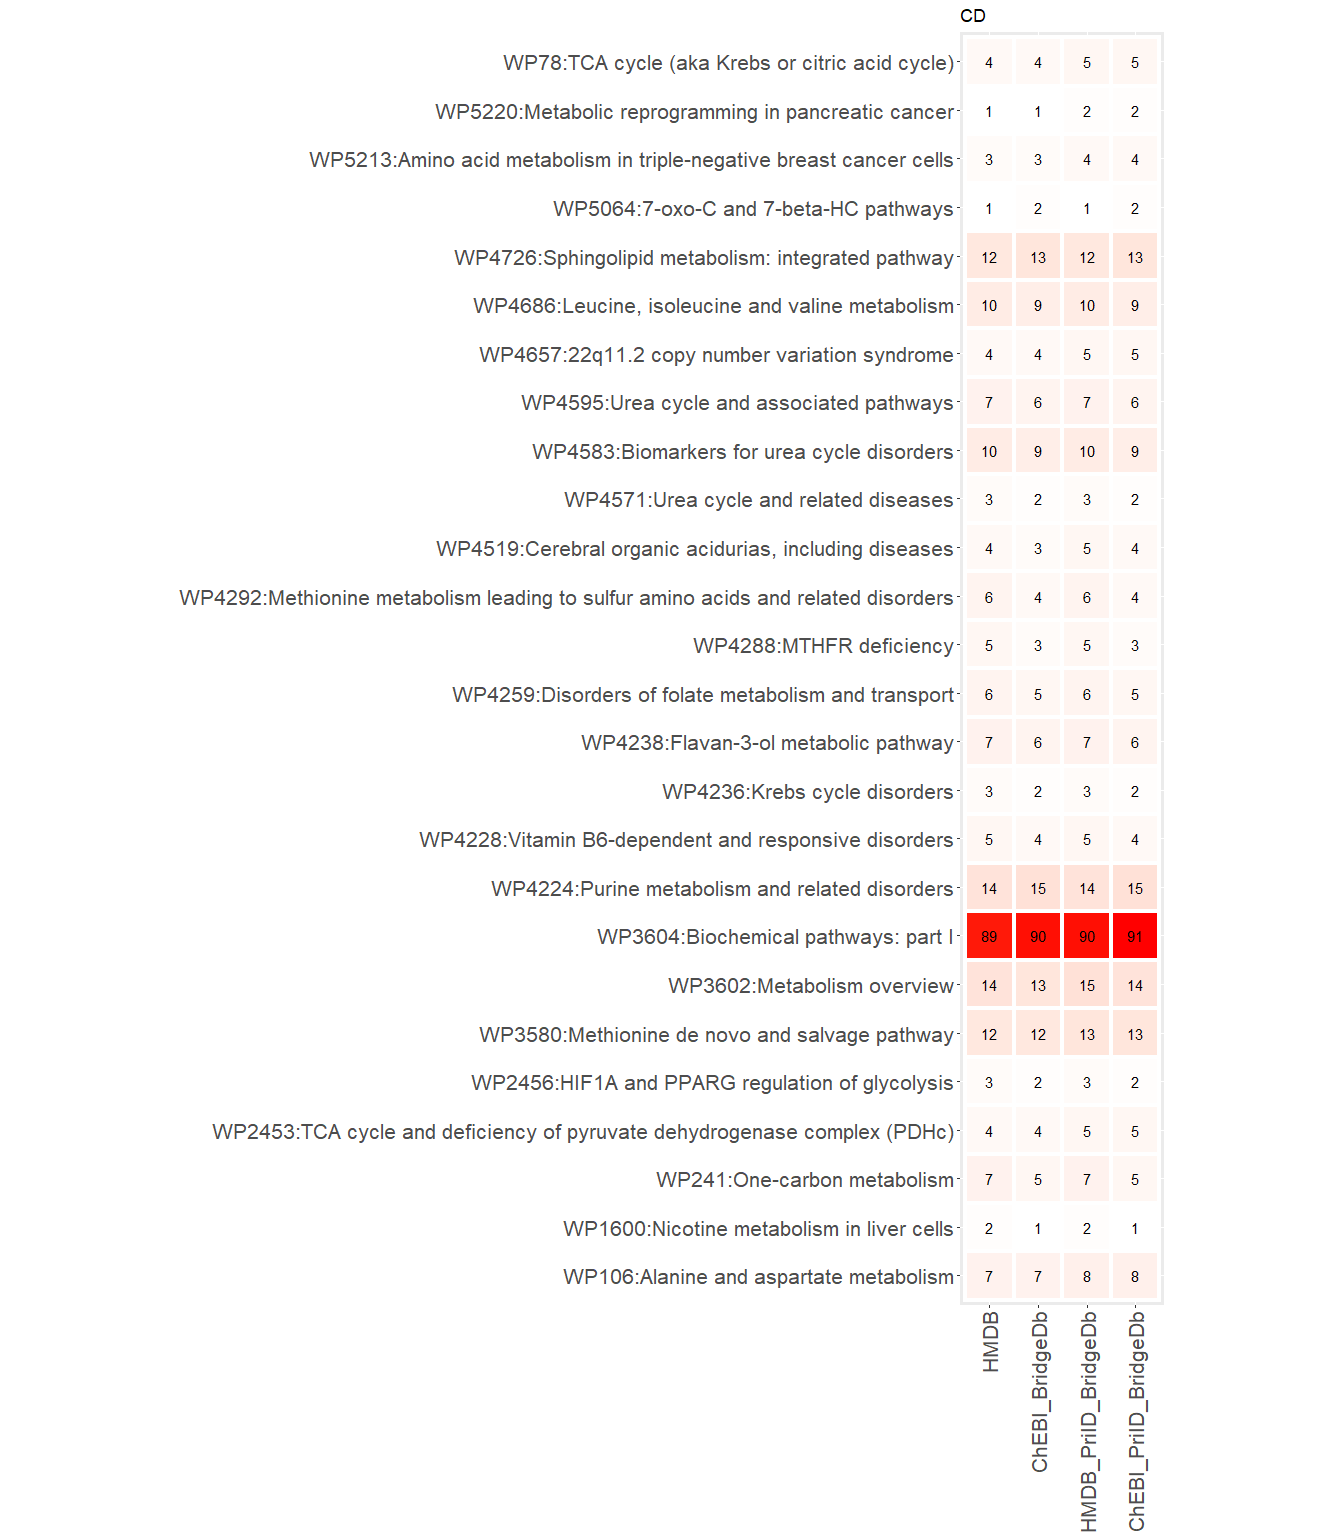
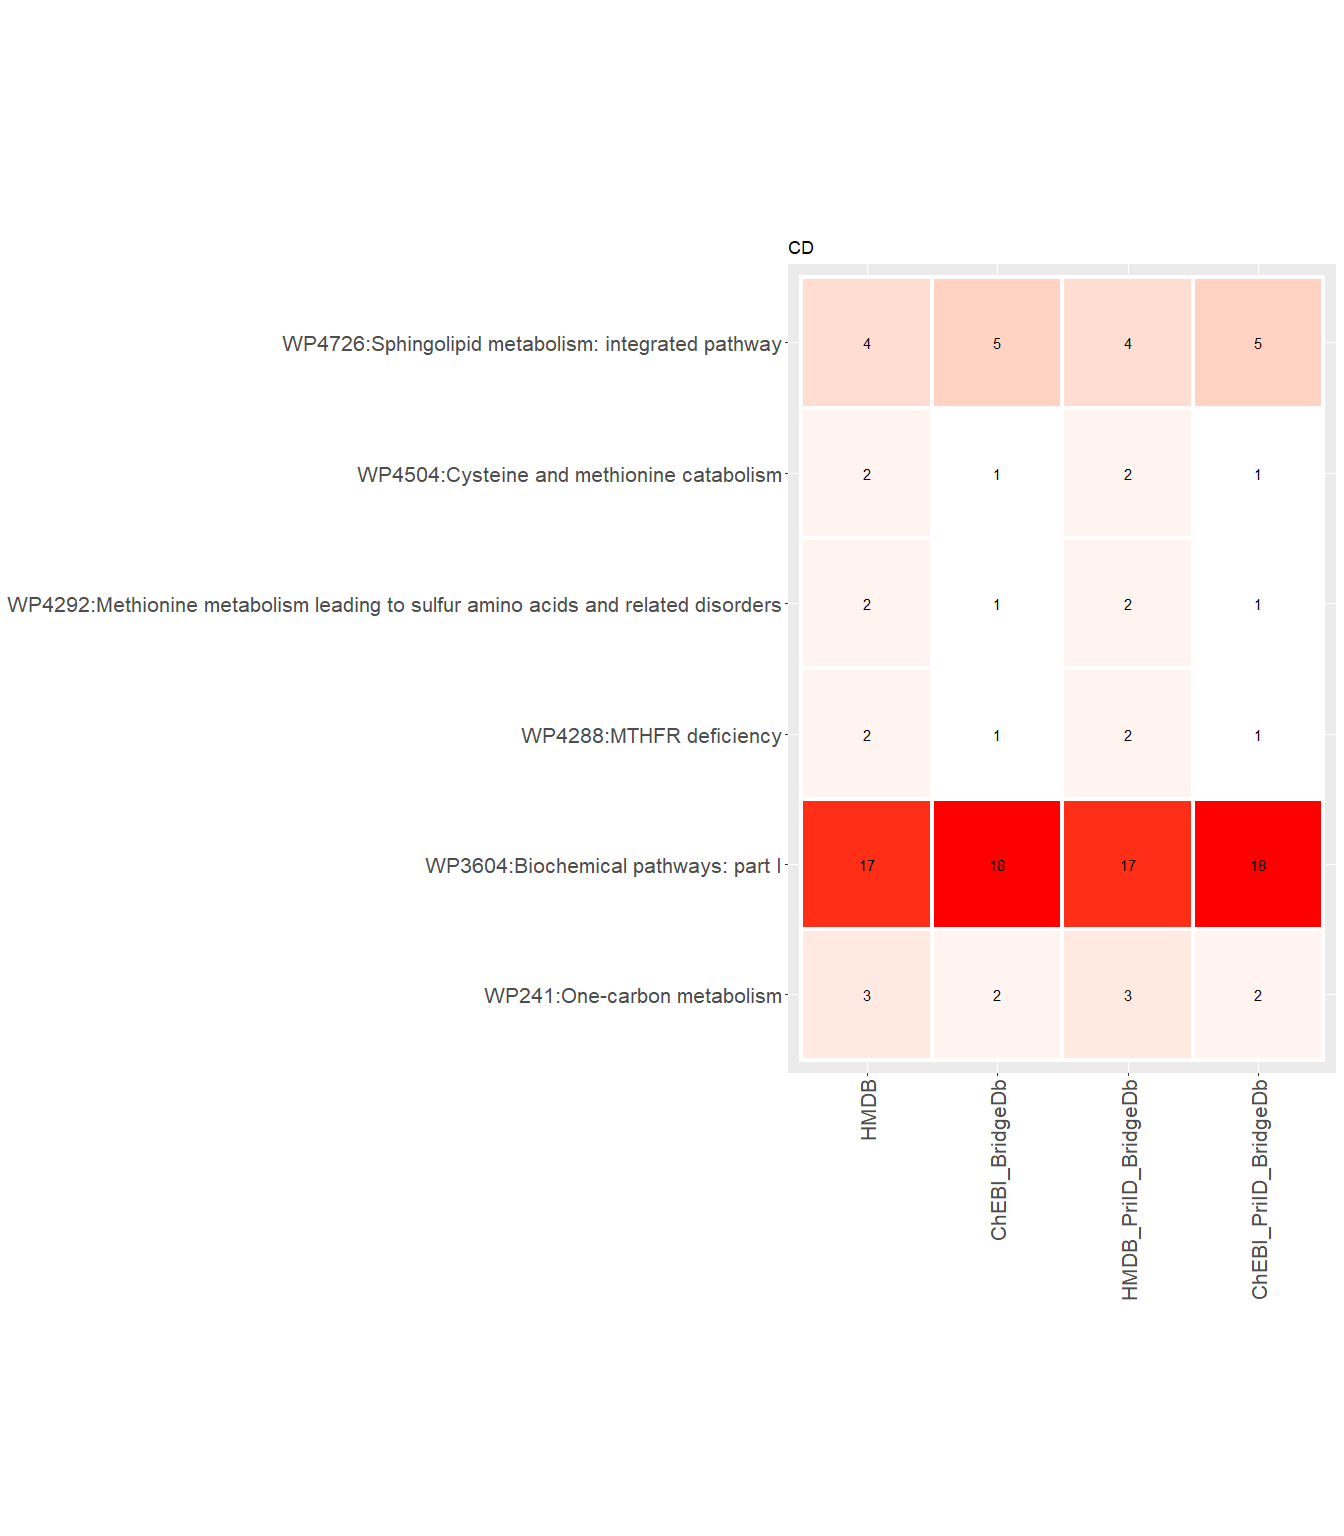
combined pathways step 5

Changed region(s): [[0.0, 0.0312, 1.0, 1.0], [0.9375, 0.7188, 0.9688, 0.7812], [0.9062, 0.8125, 0.9688, 0.8438]]

diff --git a/scripts/4-pathway_analysis_metabolomics/pathway_analysis_metabolomics.md b/scripts/4-pathway_analysis_metabolomics/pathway_analysis_metabolomics.md
@@ -42,20 +42,23 @@ mbx_dataset_CD <- read.delim("../3-identifier_mapping_metabolomics/results/mbx_I
 mbx_dataset_UC <- read.delim("../3-identifier_mapping_metabolomics/results/mbx_IDMapping_UC")
 
 #make list of metabolites for the pathway analysis
+## Significant rows
+sig.rows_CD <- which((mbx_dataset_CD$log2FC >= 1 | mbx_dataset_CD$log2FC <= -1) & mbx_dataset_CD$pvalue < 0.05)
+sig.rows_UC <- which((mbx_dataset_UC$log2FC >= 1 | mbx_dataset_UC$log2FC <= -1) & mbx_dataset_UC$pvalue < 0.05)
 ### HMDB IDs:
-sig.metabolites.HMDB_CD <- na.omit(unique(mbx_dataset_CD$HMDBID)) #CD
-sig.metabolites.HMDB_UC <- na.omit(unique(mbx_dataset_UC$HMDBID)) #UC
+sig.metabolites.HMDB_CD <- na.omit(unique(mbx_dataset_CD$HMDBID[sig.rows_CD])) #CD
+sig.metabolites.HMDB_UC <- na.omit(unique(mbx_dataset_UC$HMDBID[sig.rows_UC])) #UC
 ## BridgeDb
 ### ChEBI IDs:
-sig.metabolites.ChEBI_BridgeDb_CD <- na.omit(unique(mbx_dataset_CD$ChEBI_BridgeDb)) #CD
-sig.metabolites.ChEBI_BridgeDb_UC <- na.omit(unique(mbx_dataset_UC$ChEBI_BridgeDb)) #UC
+sig.metabolites.ChEBI_BridgeDb_CD <- na.omit(unique(mbx_dataset_CD$ChEBI_BridgeDb[sig.rows_CD])) #CD
+sig.metabolites.ChEBI_BridgeDb_UC <- na.omit(unique(mbx_dataset_UC$ChEBI_BridgeDb[sig.rows_UC])) #UC
 ## Primary id mapping, BridgeDb,
 ### primary HMDB IDs:
-sig.metabolites.HMDB_PriID_BridgeDb_CD <- na.omit(unique(mbx_dataset_CD$Current_HMDBID)) #CD
-sig.metabolites.HMDB_PriID_BridgeDb_UC <- na.omit(unique(mbx_dataset_UC$Current_HMDBID)) #UC
+sig.metabolites.HMDB_PriID_BridgeDb_CD <- na.omit(unique(mbx_dataset_CD$Current_HMDBID[sig.rows_CD])) #CD
+sig.metabolites.HMDB_PriID_BridgeDb_UC <- na.omit(unique(mbx_dataset_UC$Current_HMDBID[sig.rows_UC])) #UC
 ### ChEBI IDs:
-sig.metabolites.ChEBI_PriID_BridgeDb_CD <- na.omit(unique(mbx_dataset_CD$ChEBI_PriID_BridgeDb)) #CD
-sig.metabolites.ChEBI_PriID_BridgeDb_UC <- na.omit(unique(mbx_dataset_UC$ChEBI_PriID_BridgeDb)) #UC
+sig.metabolites.ChEBI_PriID_BridgeDb_CD <- na.omit(unique(mbx_dataset_CD$ChEBI_PriID_BridgeDb[sig.rows_CD])) #CD
+sig.metabolites.ChEBI_PriID_BridgeDb_UC <- na.omit(unique(mbx_dataset_UC$ChEBI_PriID_BridgeDb[sig.rows_UC])) #UC
 ```
 
 ## Find pathways for each dataset, based on different IDs.
@@ -180,20 +183,22 @@ kable(MappingStats)
 
 |                                                                               | BridgeDb | PrimaryID_BridgeDb |
 |:---------------------------------------------------|------:|-------------:|
-| #significant metabolites with HMDB IDs for CD (primary in PrimaryID_BridgeDb) |      438 |                436 |
-| #pathways with HMDB IDs for CD (primary in PrimaryID_BridgeDb)                |      229 |                229 |
-| #significant metabolites with HMDB IDs for UC (primary in PrimaryID_BridgeDb) |      437 |                435 |
-| #pathways with HMDB IDs for UC (primary in PrimaryID_BridgeDb)                |      229 |                229 |
-| #significant metabolites with ChEBI IDs for CD                                |      363 |                366 |
-| #pathways with ChEBI IDs for CD                                               |      228 |                228 |
-| #significant metabolites with ChEBI IDs for UC                                |      362 |                365 |
-| #pathways with ChEBI IDs for UC                                               |      228 |                228 |
+| #significant metabolites with HMDB IDs for CD (primary in PrimaryID_BridgeDb) |       97 |                 96 |
+| #pathways with HMDB IDs for CD (primary in PrimaryID_BridgeDb)                |       98 |                 98 |
+| #significant metabolites with HMDB IDs for UC (primary in PrimaryID_BridgeDb) |       78 |                 78 |
+| #pathways with HMDB IDs for UC (primary in PrimaryID_BridgeDb)                |       62 |                 62 |
+| #significant metabolites with ChEBI IDs for CD                                |       82 |                 83 |
+| #pathways with ChEBI IDs for CD                                               |       97 |                 97 |
+| #significant metabolites with ChEBI IDs for UC                                |       64 |                 65 |
+| #pathways with ChEBI IDs for UC                                               |       61 |                 61 |
 
 ## Combining pathways for the vidualization
 
 ``` r
 CombinePWs_CD <- Reduce(function(x, y) merge(x, y, all = T), lapply(ls(pattern = "Combin.*CD"), get), accumulate = F)
+CombinePWs_CD %>% write.table("results/CombinePWs_CD_mbx.txt", sep = "\t" , quote = FALSE, row.names = FALSE)
 CombinePWs_UC <- Reduce(function(x, y) merge(x, y, all = T), lapply(ls(pattern = "Combin.*UC"), get), accumulate = F)
+CombinePWs_UC %>% write.table("results/CombinePWs_UC_mbx.txt", sep = "\t" , quote = FALSE, row.names = FALSE)
 
 #CD
 CombinePWs_CD_toPlot <- CombinePWs_CD [, !grepl("probabilities|pathwayRes|pathwayTitle|TotalMetabolitesinPW", colnames (CombinePWs_CD))] %>% select (pathway, BiomarkersInPWs.HMDB_CD, BiomarkersInPWs.ChEBI_BridgeDb_CD, BiomarkersInPWs.HMDB_PriID_BridgeDb_CD, BiomarkersInPWs.ChEBI_PriID_BridgeDb_CD)
@@ -205,6 +210,11 @@ CombinePWs_CD_toPlot <- CombinePWs_CD_toPlot %>%
   reshape2::melt() %>%
   mutate(pathway = paste0(pathway, ":", CombinePWs_CD$pathwayTitle[match(pathway, CombinePWs_CD$pathway)]),
          value = ifelse (is.na(value), 0, value))
+
+(Int_PWs_CD <- unique(gsub (":.*", "", CombinePWs_CD_toPlot$pathway))) %>% 
+  write.table("results/Int_PWs_CD_mbx.txt", sep = "\t" , quote = FALSE, row.names = FALSE)
+
+
 ggplot(CombinePWs_CD_toPlot, aes(x = variable, y = pathway, fill = value)) +
   geom_tile(color = "white",
             lwd = 1.5,
@@ -232,6 +242,10 @@ CombinePWs_UC_toPlot <- CombinePWs_UC_toPlot %>%
   reshape2::melt() %>%
   mutate(pathway = paste0(pathway, ":", CombinePWs_UC$pathwayTitle[match(pathway, CombinePWs_UC$pathway)]),
          value = ifelse (is.na(value), 0, value))
+
+(Int_PWs_UC <- unique(gsub (":.*", "", CombinePWs_UC_toPlot$pathway))) %>% 
+  write.table("results/Int_PWs_UC_mbx.txt", sep = "\t" , quote = FALSE, row.names = FALSE)
+
 ggplot(CombinePWs_UC_toPlot, aes(x = variable, y = pathway, fill = value)) +
   geom_tile(color = "white",
             lwd = 1.5,
@@ -247,3 +261,42 @@ ggplot(CombinePWs_UC_toPlot, aes(x = variable, y = pathway, fill = value)) +
 ```
 
 ![](pathway_analysis_metabolomics_files/figure-markdown_github/Comparison-2.png)
+
+##Print session info and remove datasets:
+
+    ## R version 4.1.2 (2021-11-01)
+    ## Platform: x86_64-w64-mingw32/x64 (64-bit)
+    ## Running under: Windows 10 x64 (build 22000)
+    ## 
+    ## Matrix products: default
+    ## 
+    ## locale:
+    ## [1] LC_COLLATE=English_United Kingdom.1252 
+    ## [2] LC_CTYPE=English_United Kingdom.1252   
+    ## [3] LC_MONETARY=English_United Kingdom.1252
+    ## [4] LC_NUMERIC=C                           
+    ## [5] LC_TIME=English_United Kingdom.1252    
+    ## 
+    ## attached base packages:
+    ## [1] stats     graphics  grDevices utils     datasets  methods   base     
+    ## 
+    ## other attached packages:
+    ## [1] ggplot2_3.3.6     reshape2_1.4.4    knitr_1.39        data.table_1.14.2
+    ## [5] dplyr_1.0.9       SPARQL_1.16       RCurl_1.98-1.6    XML_3.99-0.10    
+    ## [9] rstudioapi_0.13  
+    ## 
+    ## loaded via a namespace (and not attached):
+    ##  [1] Rcpp_1.0.8.3        highr_0.9           pillar_1.7.0       
+    ##  [4] compiler_4.1.2      BiocManager_1.30.18 plyr_1.8.7         
+    ##  [7] bitops_1.0-7        tools_4.1.2         digest_0.6.29      
+    ## [10] gtable_0.3.0        evaluate_0.15       lifecycle_1.0.1    
+    ## [13] tibble_3.1.7        pkgconfig_2.0.3     rlang_1.0.2        
+    ## [16] cli_3.2.0           DBI_1.1.3           yaml_2.3.5         
+    ## [19] xfun_0.31           fastmap_1.1.0       withr_2.5.0        
+    ## [22] stringr_1.4.0       generics_0.1.2      vctrs_0.4.1        
+    ## [25] grid_4.1.2          tidyselect_1.1.2    glue_1.6.2         
+    ## [28] R6_2.5.1            fansi_1.0.3         rmarkdown_2.14     
+    ## [31] farver_2.1.0        purrr_0.3.4         magrittr_2.0.3     
+    ## [34] scales_1.2.0        ellipsis_0.3.2      htmltools_0.5.2    
+    ## [37] assertthat_0.2.1    colorspace_2.0-3    utf8_1.2.2         
+    ## [40] stringi_1.7.6       munsell_0.5.0       crayon_1.5.1
